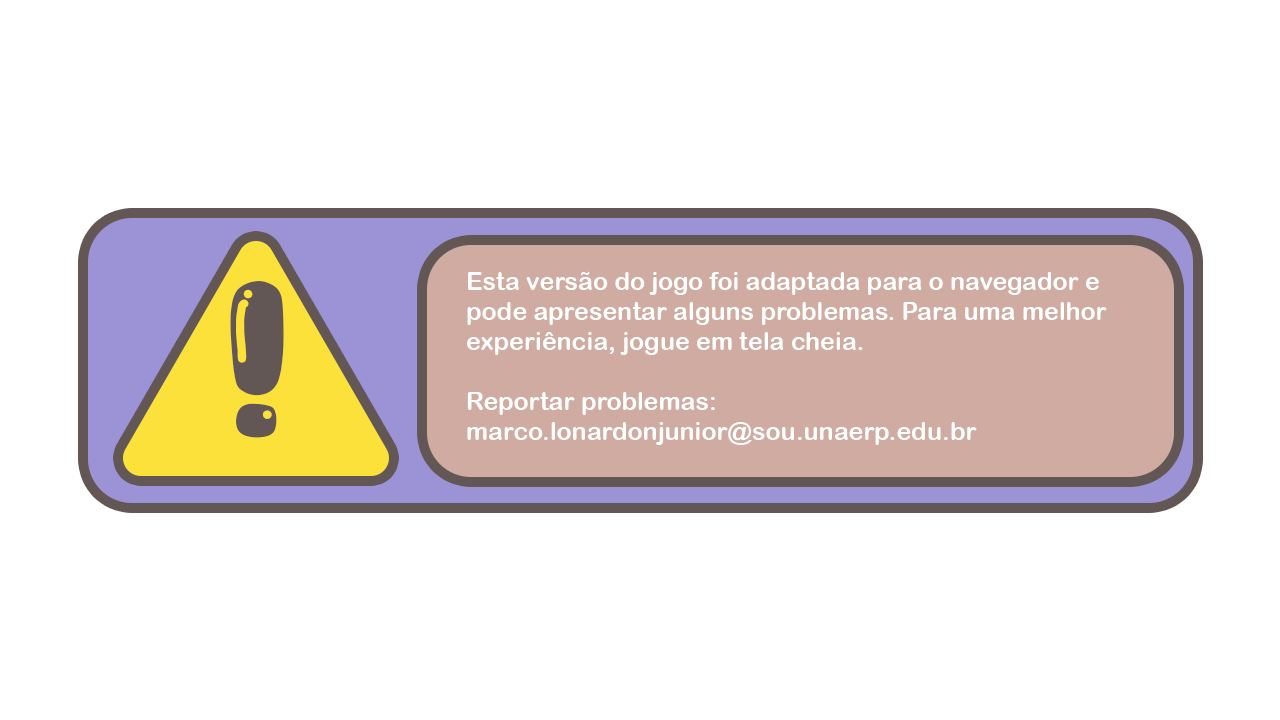
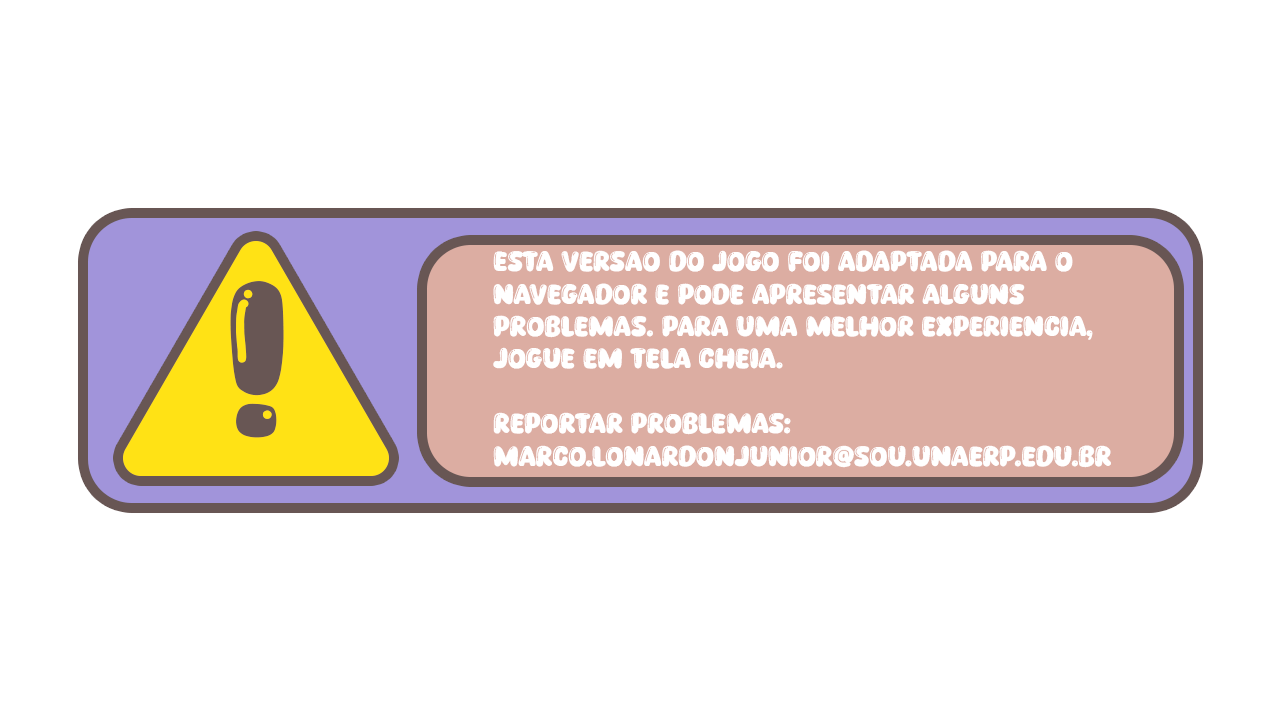
Commit

Changed region(s): [[0.3438, 0.3361, 0.875, 0.5194], [0.3438, 0.55, 0.875, 0.6722], [0.0938, 0.3361, 0.3125, 0.6722]]

diff --git a/index.html b/index.html
@@ -1,5 +1,5 @@
 <!DOCTYPE html>
-<html lang="en-us">
+<html lang="pt-BR">
   <head>
     <meta charset="utf-8">
     <meta http-equiv="Content-Type" content="text/html; charset=utf-8">
@@ -18,7 +18,10 @@
       </div>
       <div id="unity-warning"> </div>
       <div id="unity-footer">
-        <div id="unity-webgl-logo"></div>
+        <div id="unity-webgl-logo">
+          <!--<p>Esta versão do jogo foi adaptada para o navegador e pode apresentar alguns problemas. Para uma melhor experiência, 
+            jogue em <strong>tela cheia</strong>. <br>Reportar problemas: <br><strong>marco.lonardonjunior@sou.unaerp.edu.br</strong></p>-->
+        </div>
         <div id="unity-fullscreen-button"></div>
         <!-- <div id="unity-build-title">Renal Ped</div> -->
       </div>
@@ -32,12 +35,6 @@
       var fullscreenButton = document.querySelector("#unity-fullscreen-button");
       var warningBanner = document.querySelector("#unity-warning");
 
-      // Shows a temporary message banner/ribbon for a few seconds, or
-      // a permanent error message on top of the canvas if type=='error'.
-      // If type=='warning', a yellow highlight color is used.
-      // Modify or remove this function to customize the visually presented
-      // way that non-critical warnings and error messages are presented to the
-      // user.
       function unityShowBanner(msg, type) {
         function updateBannerVisibility() {
           warningBanner.style.display = warningBanner.children.length ? 'block' : 'none';
@@ -69,31 +66,14 @@
         showBanner: unityShowBanner,
       };
 
-      // By default, Unity keeps WebGL canvas render target size matched with
-      // the DOM size of the canvas element (scaled by window.devicePixelRatio)
-      // Set this to false if you want to decouple this synchronization from
-      // happening inside the engine, and you would instead like to size up
-      // the canvas DOM size and WebGL render target sizes yourself.
-      // config.matchWebGLToCanvasSize = false;
-
       if (/iPhone|iPad|iPod|Android/i.test(navigator.userAgent)) {
-        // Mobile device style: fill the whole browser client area with the game canvas:
-
         var meta = document.createElement('meta');
         meta.name = 'viewport';
         meta.content = 'width=device-width, height=device-height, initial-scale=1.0, user-scalable=no, shrink-to-fit=yes';
         document.getElementsByTagName('head')[0].appendChild(meta);
         container.className = "unity-mobile";
         canvas.className = "unity-mobile";
-
-        // To lower canvas resolution on mobile devices to gain some
-        // performance, uncomment the following line:
-        // config.devicePixelRatio = 1;
-
-
       } else {
-        // Desktop style: Render the game canvas in a window that can be maximized to fullscreen:
-
         canvas.style.width = "854px";
         canvas.style.height = "480px";
       }
@@ -105,15 +85,15 @@
       script.onload = () => {
         createUnityInstance(canvas, config, (progress) => {
           progressBarFull.style.width = 100 * progress + "%";
-              }).then((unityInstance) => {
-                loadingBar.style.display = "none";
-                fullscreenButton.onclick = () => {
-                  unityInstance.SetFullscreen(1);
-                };
-              }).catch((message) => {
-                alert(message);
-              });
-            };
+        }).then((unityInstance) => {
+          loadingBar.style.display = "none";
+          fullscreenButton.onclick = () => {
+            unityInstance.SetFullscreen(1);
+          };
+        }).catch((message) => {
+          alert(message);
+        });
+      };
 
       document.body.appendChild(script);
 
